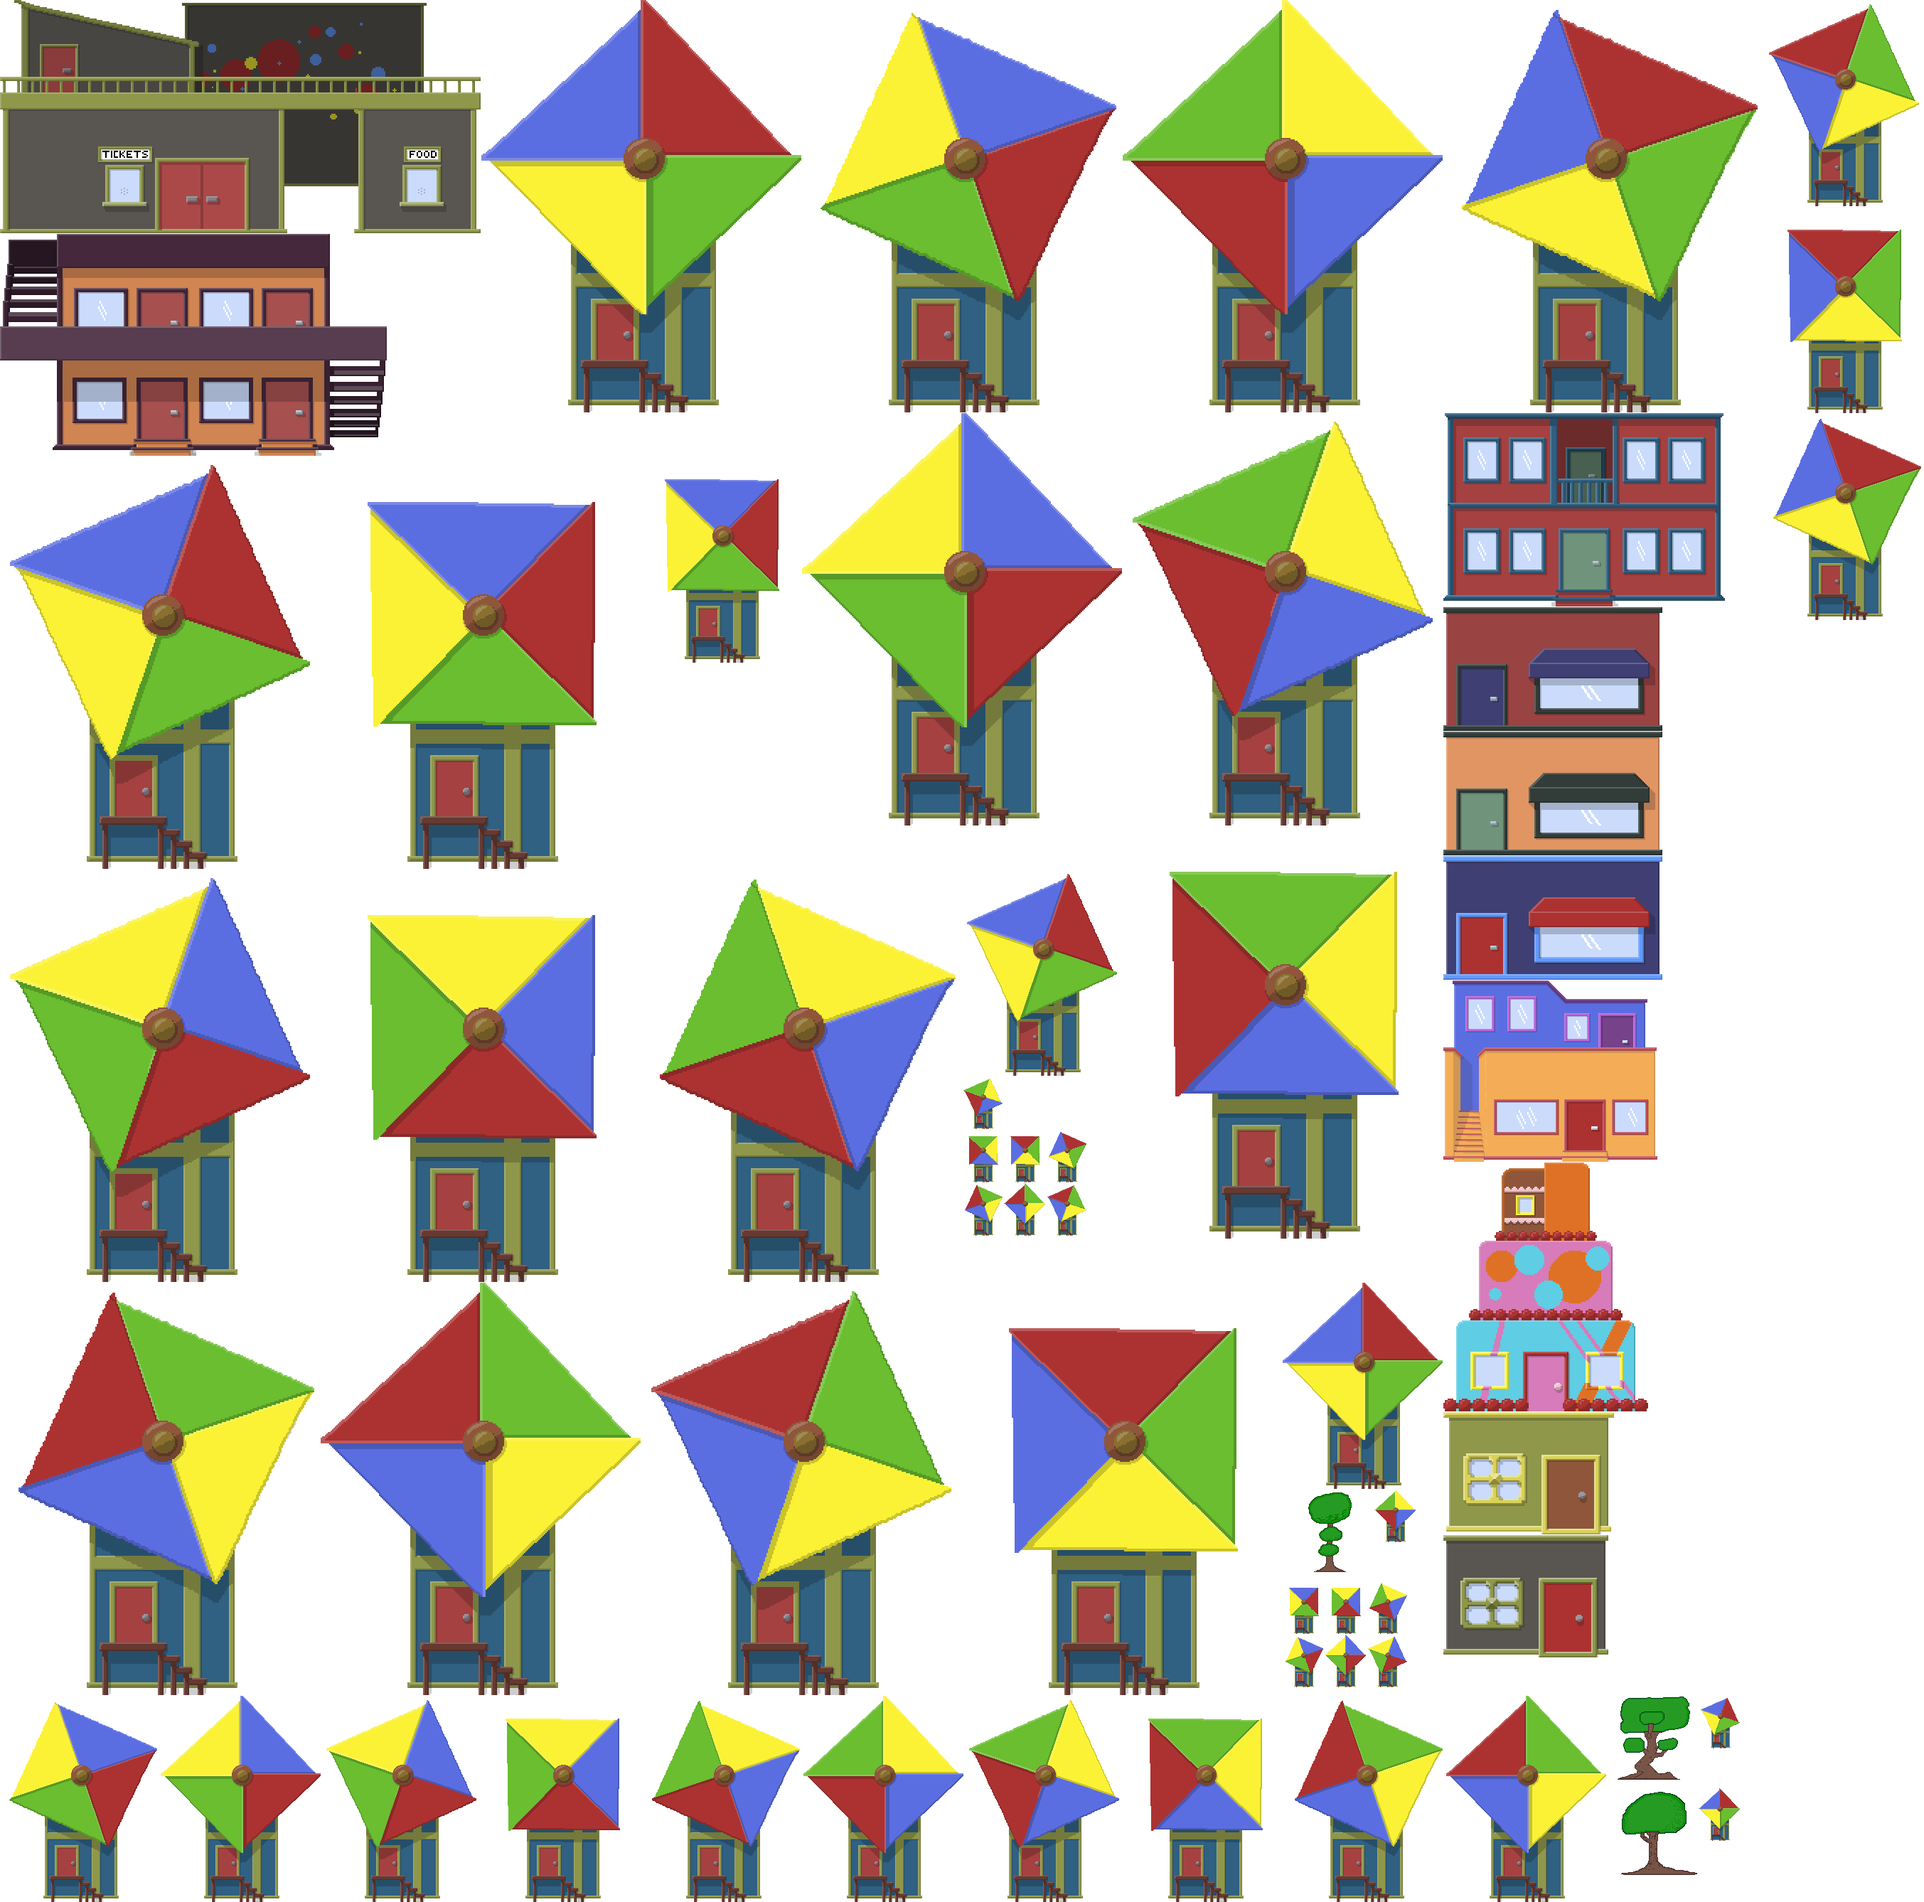
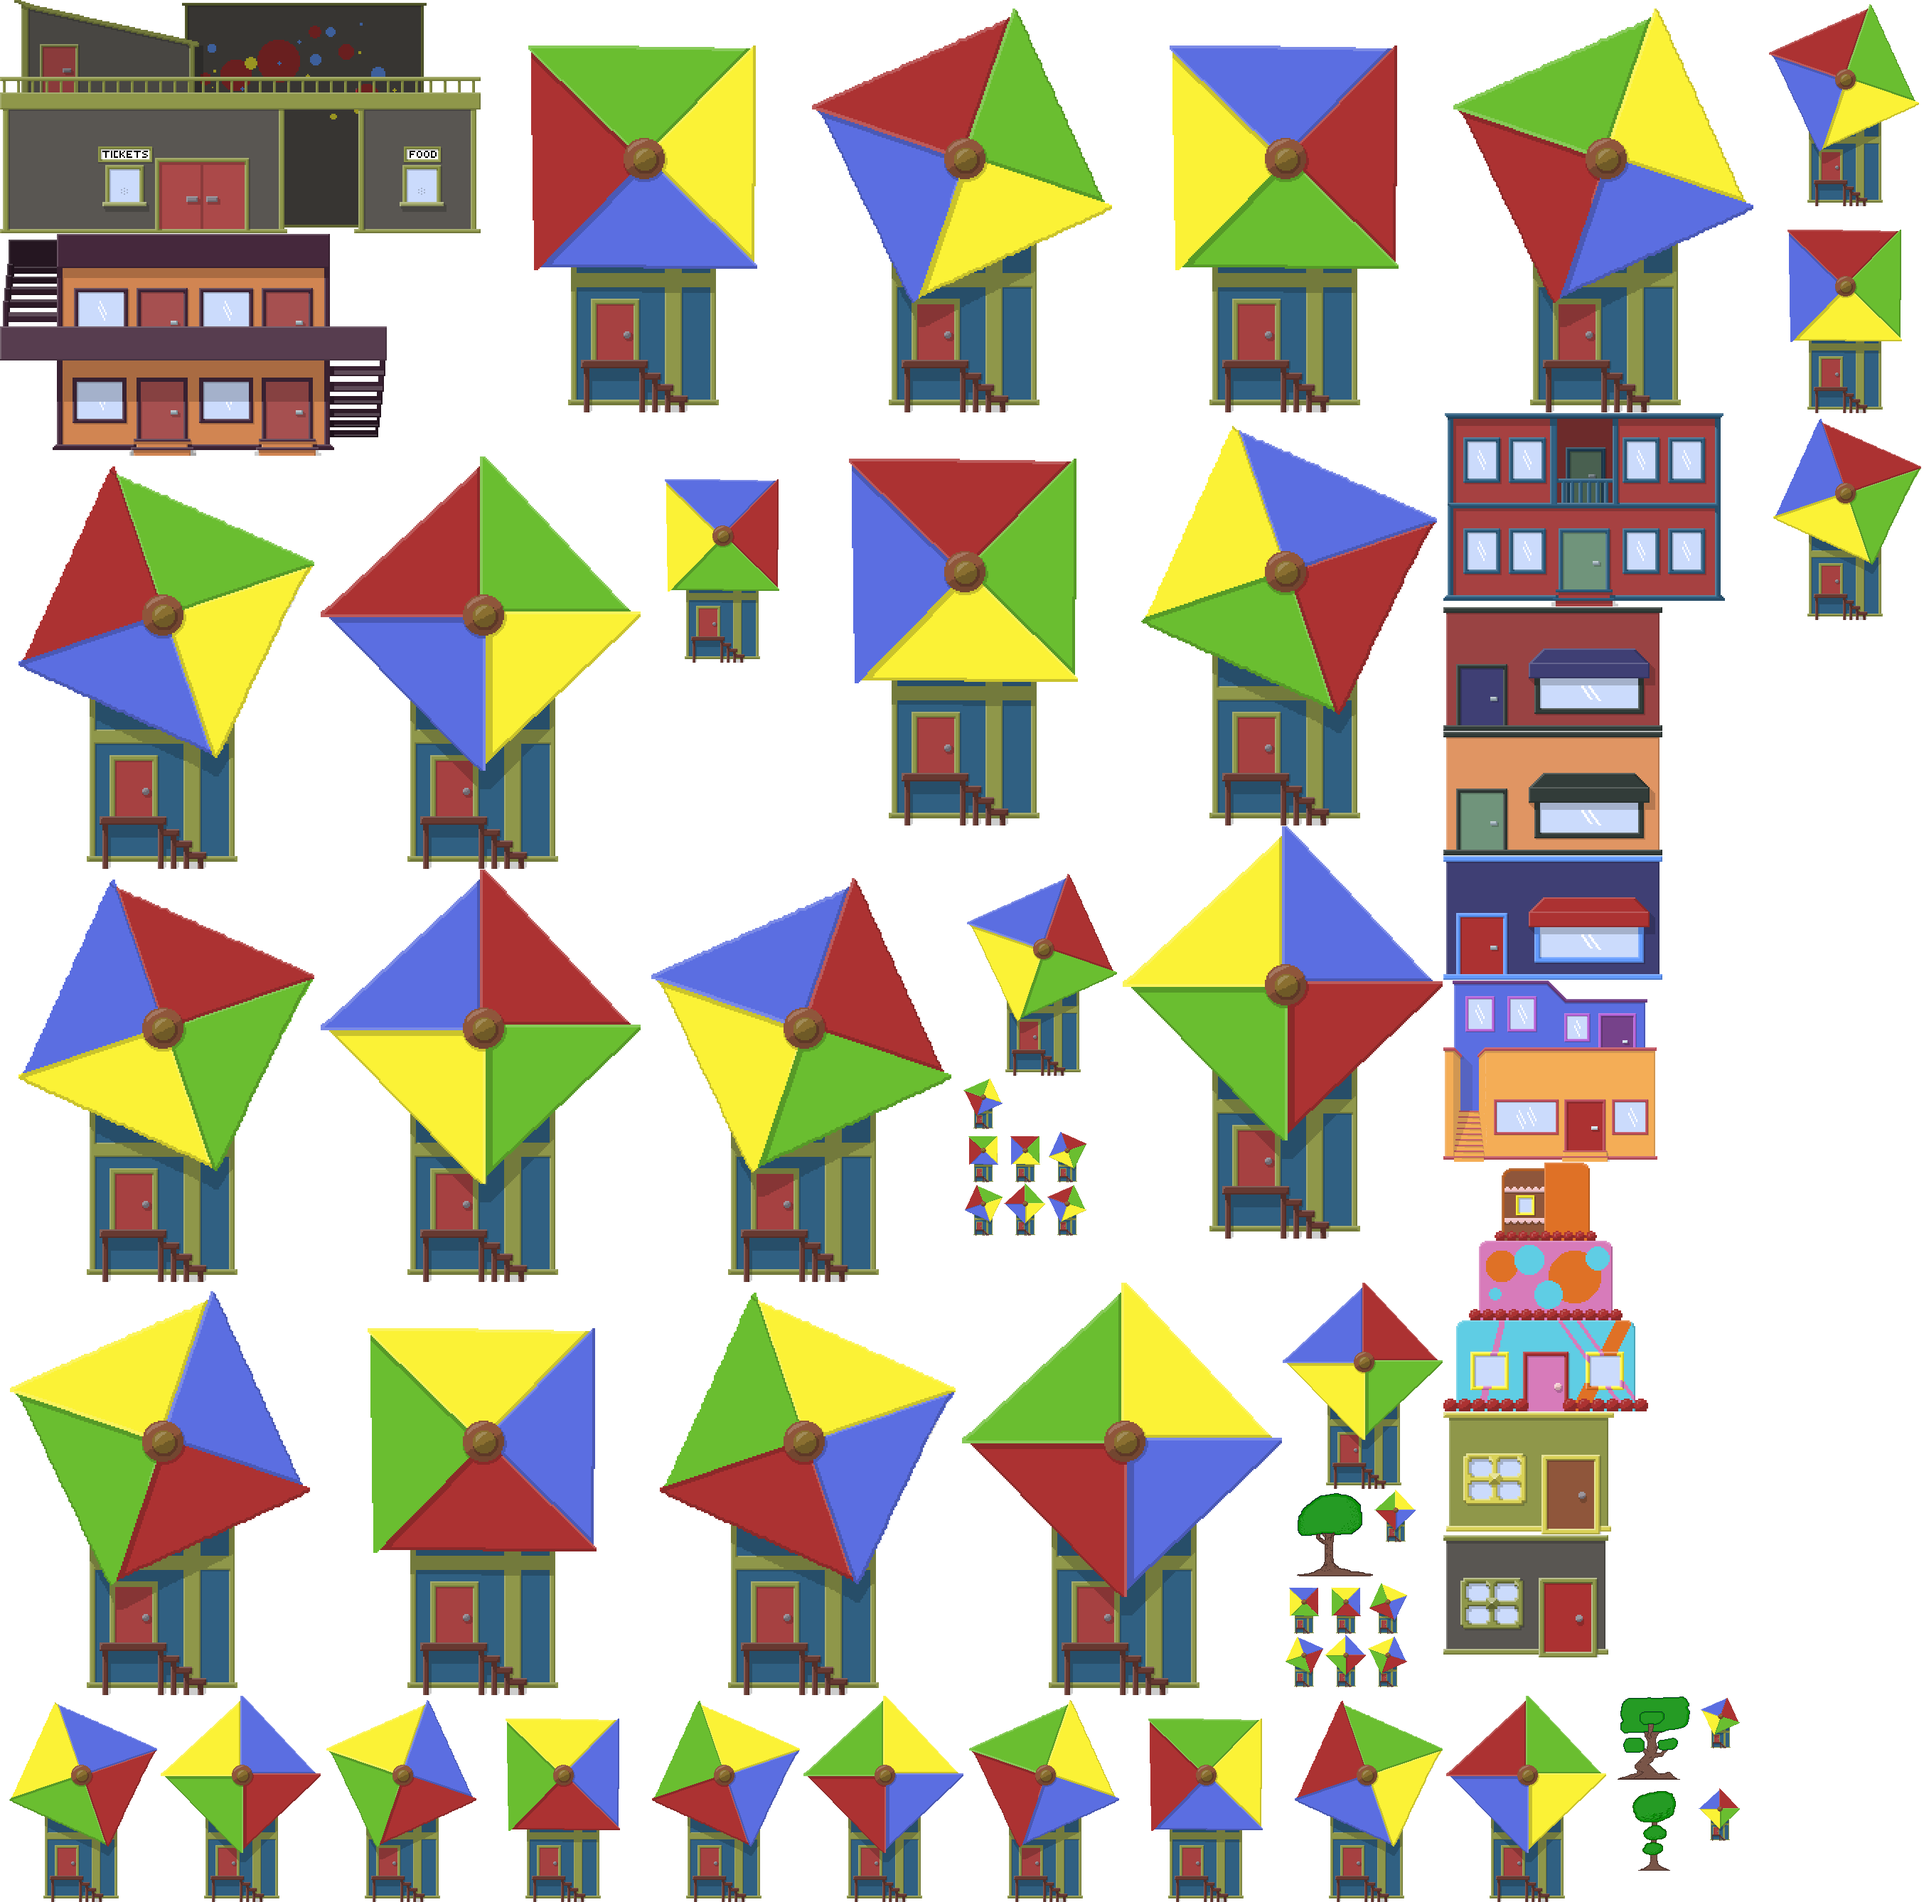
people dont spawn with trees. house and shop spawn random colors. Updated texture atluses and JSON files to do this

diff --git a/TTF/js/main.js b/TTF/js/main.js
@@ -63,7 +63,10 @@ MainMenu.prototype = {
 
         //building assets
         game.load.atlas('buildingButtons', 'assets/img/buildingsheet.png', 'assets/img/buildingsheet.json');
-        game.load.atlas('buttons', 'assets/img/buttonsheet.png', 'assets/img/buttonsheet.json')
+        game.load.atlas('buttons', 'assets/img/buttonsheet.png', 'assets/img/buttonsheet.json');
+        game.load.image('house1_black', 'assets/img/buildings/new_house1_black.png');
+        game.load.image('shop2', 'assets/img/buildings/shop2.png');
+        game.load.image('shop3', 'assets/img/buildings/shop3.png');
         //game.load.image('house_5', 'assets/img/house_5.png');
 
         //people assets
@@ -154,7 +157,16 @@ var timer;
 var people_living = [];
 var buildings_built = [];
 
-var building_list = ['cafe', 'cakeHouse', 'new_house1', 'windmill1', 'schoolHouse_v2', 'shop1', 'tree1', 'tree2', 'tree4', 'venue', 'venue'];
+var building_list = [['cafe'],
+ ['cakeHouse'],
+ ['new_house1', 'new_house1_black'], 
+ ['windmill1'], 
+ ['schoolHouse_v2'], 
+ ['shop1', 'shop2', 'shop3'], 
+ ['tree1'], 
+ ['tree2'], 
+ ['tree4'], 
+ ['venue']];
 
 var GamePlay = function(game){};
 GamePlay.prototype = {
@@ -166,7 +178,7 @@ GamePlay.prototype = {
         houseHeight = 128;
         scrollSpeed = 10;
         lavaHeight = 700;
-        timeUntilLava = 4000;
+        timeUntilLava = 40000;
         lavaSpeed = 100;
         cameraFollowLavaSpeed = .005;
 
@@ -330,7 +342,8 @@ GameOver.prototype = {
 
 function skyPressed(){
     console.log("skyPressed at: X: " + game.input.mousePointer.x);
-    var frame = building_list[select];
+    var type_list = building_list[select];
+    var frame = type_list[game.rnd.between(0, type_list.length - 1)];
     var num_peo = 1;
     if (frame == 'schoolHouse_v2') num_peo = 3;
     newBuilding = new Building(game, 'buildingButtons', frame, game.input.mousePointer.x + game.camera.x, num_peo);

diff --git a/TTF/js/prefabs/buildings.js b/TTF/js/prefabs/buildings.js
@@ -65,6 +65,10 @@ function personRelease(){
             console.log('making a tiny windmill');
             this.owner = new Person(game, this.x + this.width/2 + game.rnd.integerInRange(-220, 220), this.y + this.height-10, true, 10);
         }
+        else if (this.name == 'tree1' || this.name == 'tree2' || this.name == 'tree4')
+        {
+            console.log('this is a tree');
+        }
         else {
             console.log('not a tiny building');
             this.owner = new Person(game, this.x + this.width/2, this.y + this.height-32, false, 30);}
